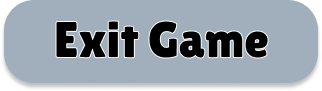
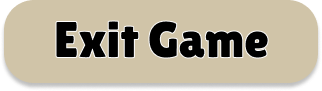
end screen ready for BE integration

diff --git a/main.py b/main.py
@@ -21,6 +21,7 @@ BEIGE = '#E1D4BB'
 # Fonts
 inria_20 = pygame.font.Font(os.path.join('assets','fonts','InriaSans-Regular.ttf'),20)
 inria_50 = pygame.font.Font(os.path.join('assets','fonts','InriaSans-Regular.ttf'),50)
+inria_40 = pygame.font.Font(os.path.join('assets','fonts','InriaSans-Regular.ttf'),40)
 inria_50.align = pygame.FONT_CENTER
 inria_italic_20 = pygame.font.Font(os.path.join('assets','fonts','InriaSans-Italic.ttf'),20)
 inria_italic_40 = pygame.font.Font(os.path.join('assets','fonts','InriaSans-Italic.ttf'),40)
@@ -51,8 +52,10 @@ loading_bg_rect = images['loading_bg'].get_rect(topleft=(269,384))
 enter_btn_rect = images['enter_btn'].get_rect(topleft=(401,570))
 name_box_rect = images['name_box'].get_rect(topleft=(355,487))
 
-congrats_label = images['congrats_label'].get_rect(topleft=(294,194))
-win_label = images['congrats_label_2'].get_rect(topleft=(485,367))
+exit_game_btn_rect = images['exit_game_btn'].get_rect(topleft=(491,481))
+
+congrats_label_rect = images['congrats_label'].get_rect(topleft=(294,194))
+win_label_rect = images['congrats_label_2'].get_rect(topleft=(485,367))
 
 pcard_width, pcard_height = images['player_card'].get_size()
 gbox_width, gbox_height = images['game_box'].get_size()
@@ -220,8 +223,8 @@ def loading(game: Game):
         waiting = game.get_player_count() < game.get_player_size()
 
     pygame.time.set_timer(loading_timer, 0) # Disable timer
-    game_proper(game)
-    #end_screen(game)
+    #game_proper(game)
+    end_screen(game)
 
 
 def fetch_games():
@@ -638,6 +641,8 @@ def player_name():
         clock.tick(FPS)
 
 def end_screen(game:Game):
+    highlight_name = "John Kekow"
+    
     while True:
         lmb_clicked = False
         player_name_value = name_input.value
@@ -656,6 +661,32 @@ def end_screen(game:Game):
                 if event.key == pygame.K_RETURN and player_name_value != '':
                     main_menu()
 
+        # Draw the screen
+        draw_bg(bg=images['game_bg'], draw_logo=False,color=BLUE)
+
+        # need to call the highest score from sever
+        # Label
+        window_label = inria_italic_40.render(highlight_name,1,'Black')
+        SCREEN.blit(window_label,(516,308))
+
+        SCREEN.blit(images['congrats_label'], congrats_label_rect)
+        SCREEN.blit(images['congrats_label_2'], win_label_rect)
+
+
+        mx, my = pygame.mouse.get_pos()
+        # Handle button hover & sfx
+        if exit_game_btn_rect.collidepoint(mx, my):
+            if not enter_btn_hovered:
+                btn_sfx.play()
+                enter_btn_hovered = True
+            SCREEN.blit(images['exit_game_hover'], exit_game_btn_rect)
+            if lmb_clicked:
+                main_menu()
+        else: 
+            enter_btn_hovered = False
+            SCREEN.blit(images['exit_game_btn'], exit_game_btn_rect)
+        
+        # need to also send score to players yeet
         draw_leaderboard(game)
 
         pygame.display.update()
